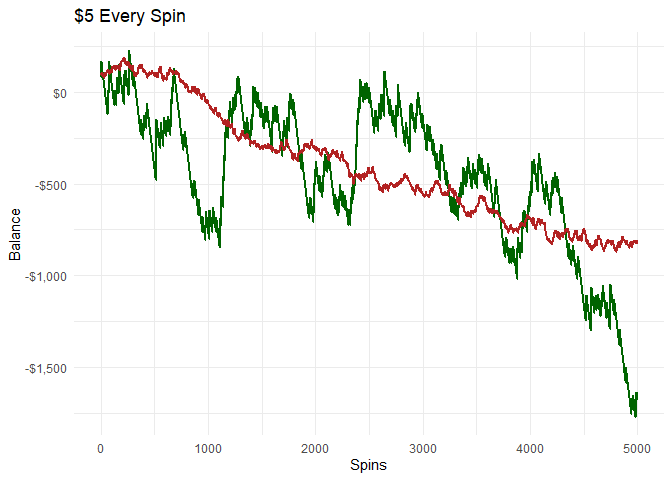
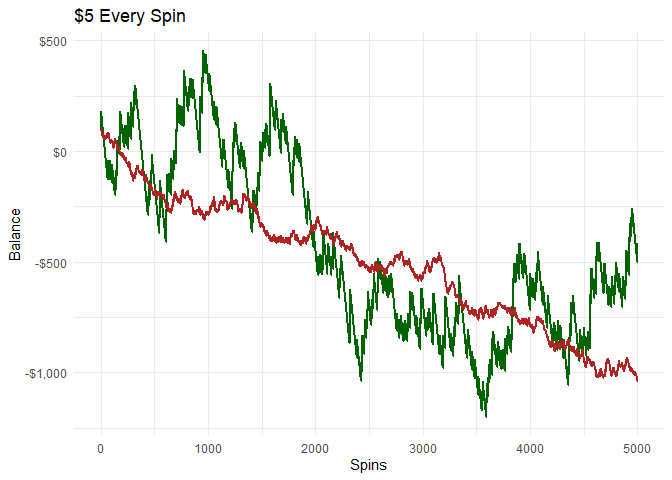
Add files via upload

diff --git a/Roulette/Roulette.md b/Roulette/Roulette.md
@@ -51,16 +51,16 @@ spins %>% head(10)
     ## # Groups:   color [3]
     ##    spin_number color   bet all_green all_red green_balance red_balance streak
     ##          <int> <chr> <dbl>     <dbl>   <dbl>         <dbl>       <dbl>  <dbl>
-    ##  1           1 Black     5        -5      -5            95          95      0
-    ##  2           2 Black     5        -5      -5            90          90      1
-    ##  3           3 Red       5        -5       5            85          95      0
-    ##  4           4 Red       5        -5       5            80         100      1
-    ##  5           5 Green     5        85      -5           165          95      0
-    ##  6           6 Red       5        -5       5           160         100      0
-    ##  7           7 Red       5        -5       5           155         105      1
-    ##  8           8 Black     5        -5      -5           150         100      0
-    ##  9           9 Black     5        -5      -5           145          95      1
-    ## 10          10 Red       5        -5       5           140         100      0
+    ##  1           1 Red       5        -5       5            95         105      0
+    ##  2           2 Green     5        85      -5           180         100      0
+    ##  3           3 Black     5        -5      -5           175          95      0
+    ##  4           4 Black     5        -5      -5           170          90      1
+    ##  5           5 Red       5        -5       5           165          95      0
+    ##  6           6 Black     5        -5      -5           160          90      0
+    ##  7           7 Black     5        -5      -5           155          85      1
+    ##  8           8 Red       5        -5       5           150          90      0
+    ##  9           9 Black     5        -5      -5           145          85      0
+    ## 10          10 Black     5        -5      -5           140          80      1
     ## # ℹ 1 more variable: freq <int>
 
 To ensure the random sampling is correct, the below graph shows the
@@ -104,11 +104,11 @@ spins %>%
     ## # A tibble: 6 × 4
     ##   streak Black Green   Red
     ##    <dbl> <dbl> <dbl> <dbl>
-    ## 1      0  0.54  0.95  0.52
-    ## 2      1  0.25  0.05  0.25
-    ## 3      2  0.11  0.01  0.12
-    ## 4      3  0.05  0     0.05
-    ## 5      4  0.02  0     0.03
+    ## 1      0  0.52  0.94  0.52
+    ## 2      1  0.25  0.06  0.25
+    ## 3      2  0.12  0     0.12
+    ## 4      3  0.05  0     0.06
+    ## 5      4  0.03  0     0.03
     ## 6      5  0.01  0     0.01
 
 ### Simulation 1 - Constant Amount
@@ -198,16 +198,16 @@ spins %>% head(10)
 ```
 
     ##    spin_number color red_streak red_bet all_red red_balance
-    ## 1            1 Green          1       5      -5          95
+    ## 1            1 Black          1       5      -5          95
     ## 2            2 Black          2      10     -10          85
     ## 3            3 Black          3      20     -20          65
-    ## 4            4 Black          4      40     -40          25
-    ## 5            5   Red          5      80      80         105
-    ## 6            6 Black          1       5      -5         100
-    ## 7            7 Black          2      10     -10          90
-    ## 8            8   Red          3      20      20         110
-    ## 9            9 Black          1       5      -5         105
-    ## 10          10 Green          2      10     -10          95
+    ## 4            4   Red          4      40      40         105
+    ## 5            5 Black          1       5      -5         100
+    ## 6            6 Black          2      10     -10          90
+    ## 7            7   Red          3      20      20         110
+    ## 8            8 Black          1       5      -5         105
+    ## 9            9   Red          2      10      10         115
+    ## 10          10   Red          1       5       5         120
 
 ``` r
 ggplot(spins) +
@@ -224,3 +224,15 @@ ggplot(spins) +
 ```
 
 ![](Roulette_files/figure-gfm/unnamed-chunk-7-1.png)<!-- -->
+
+``` r
+summary(spins %>% select(red_bet,red_balance))
+```
+
+    ##     red_bet         red_balance    
+    ##  Min.   :   5.00   Min.   :-700.0  
+    ##  1st Qu.:   5.00   1st Qu.: 383.8  
+    ##  Median :  10.00   Median : 657.5  
+    ##  Mean   :  27.19   Mean   : 673.1  
+    ##  3rd Qu.:  20.00   3rd Qu.: 981.2  
+    ##  Max.   :1280.00   Max.   :1295.0
